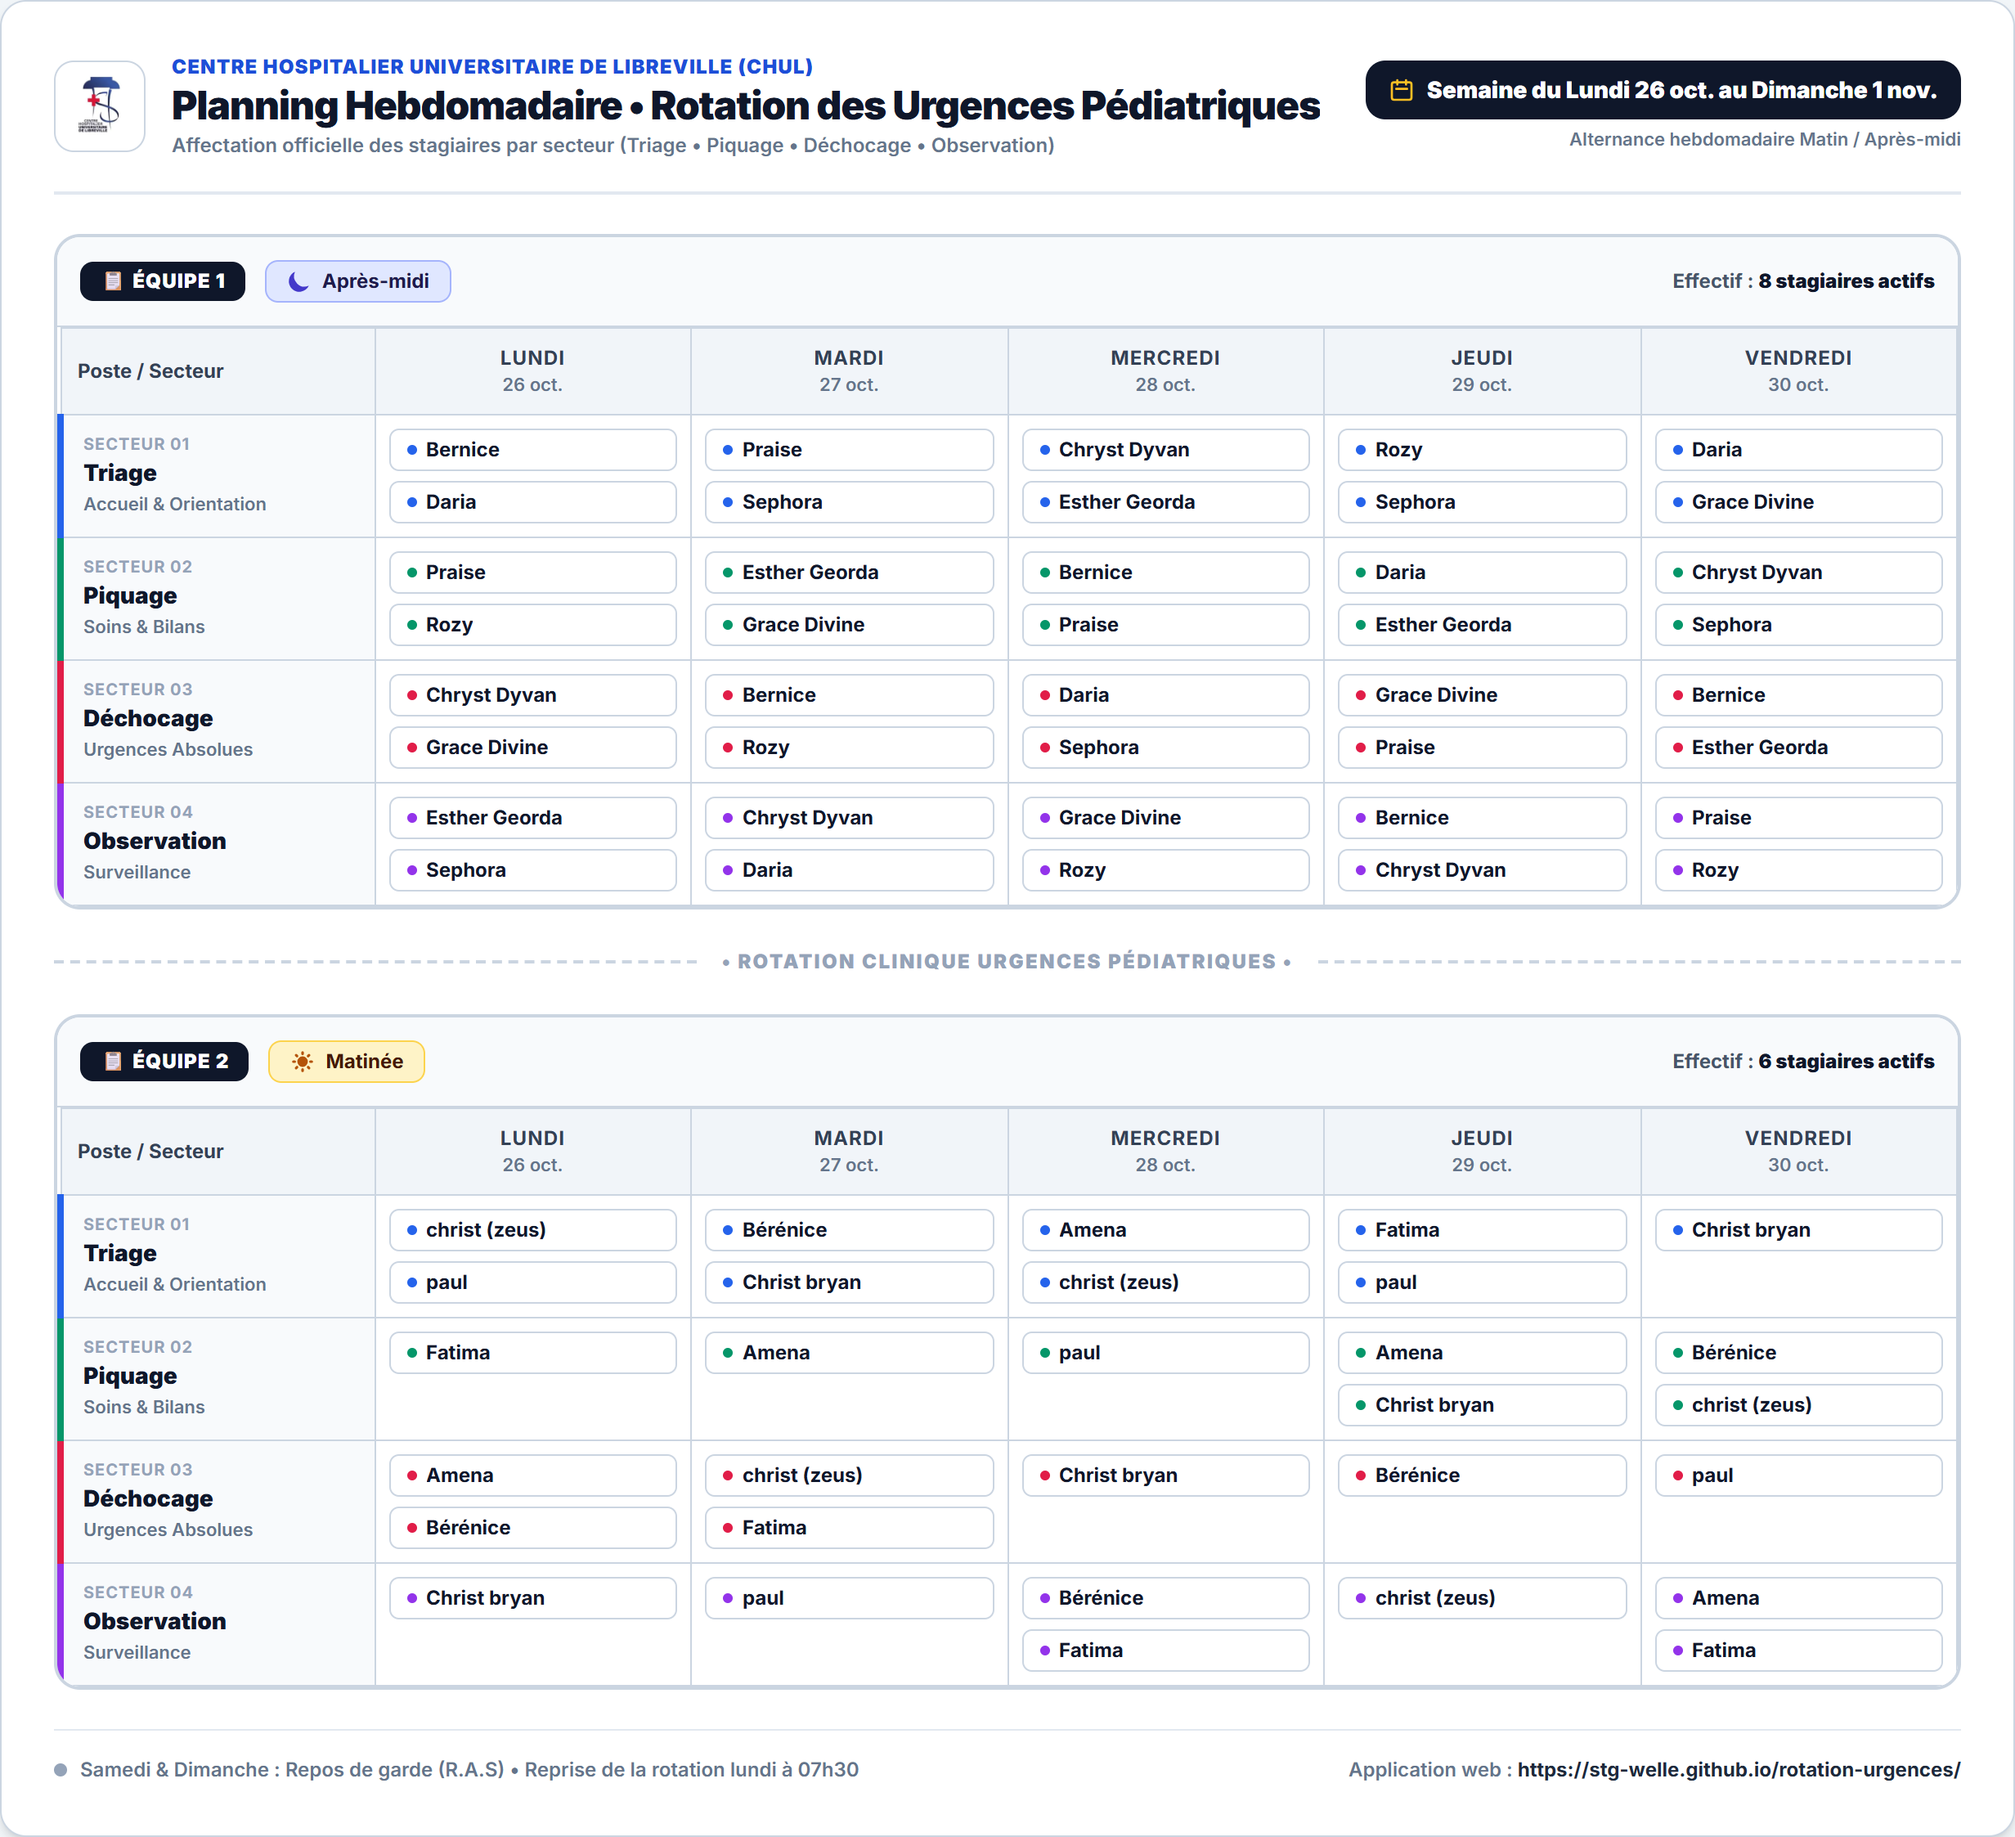
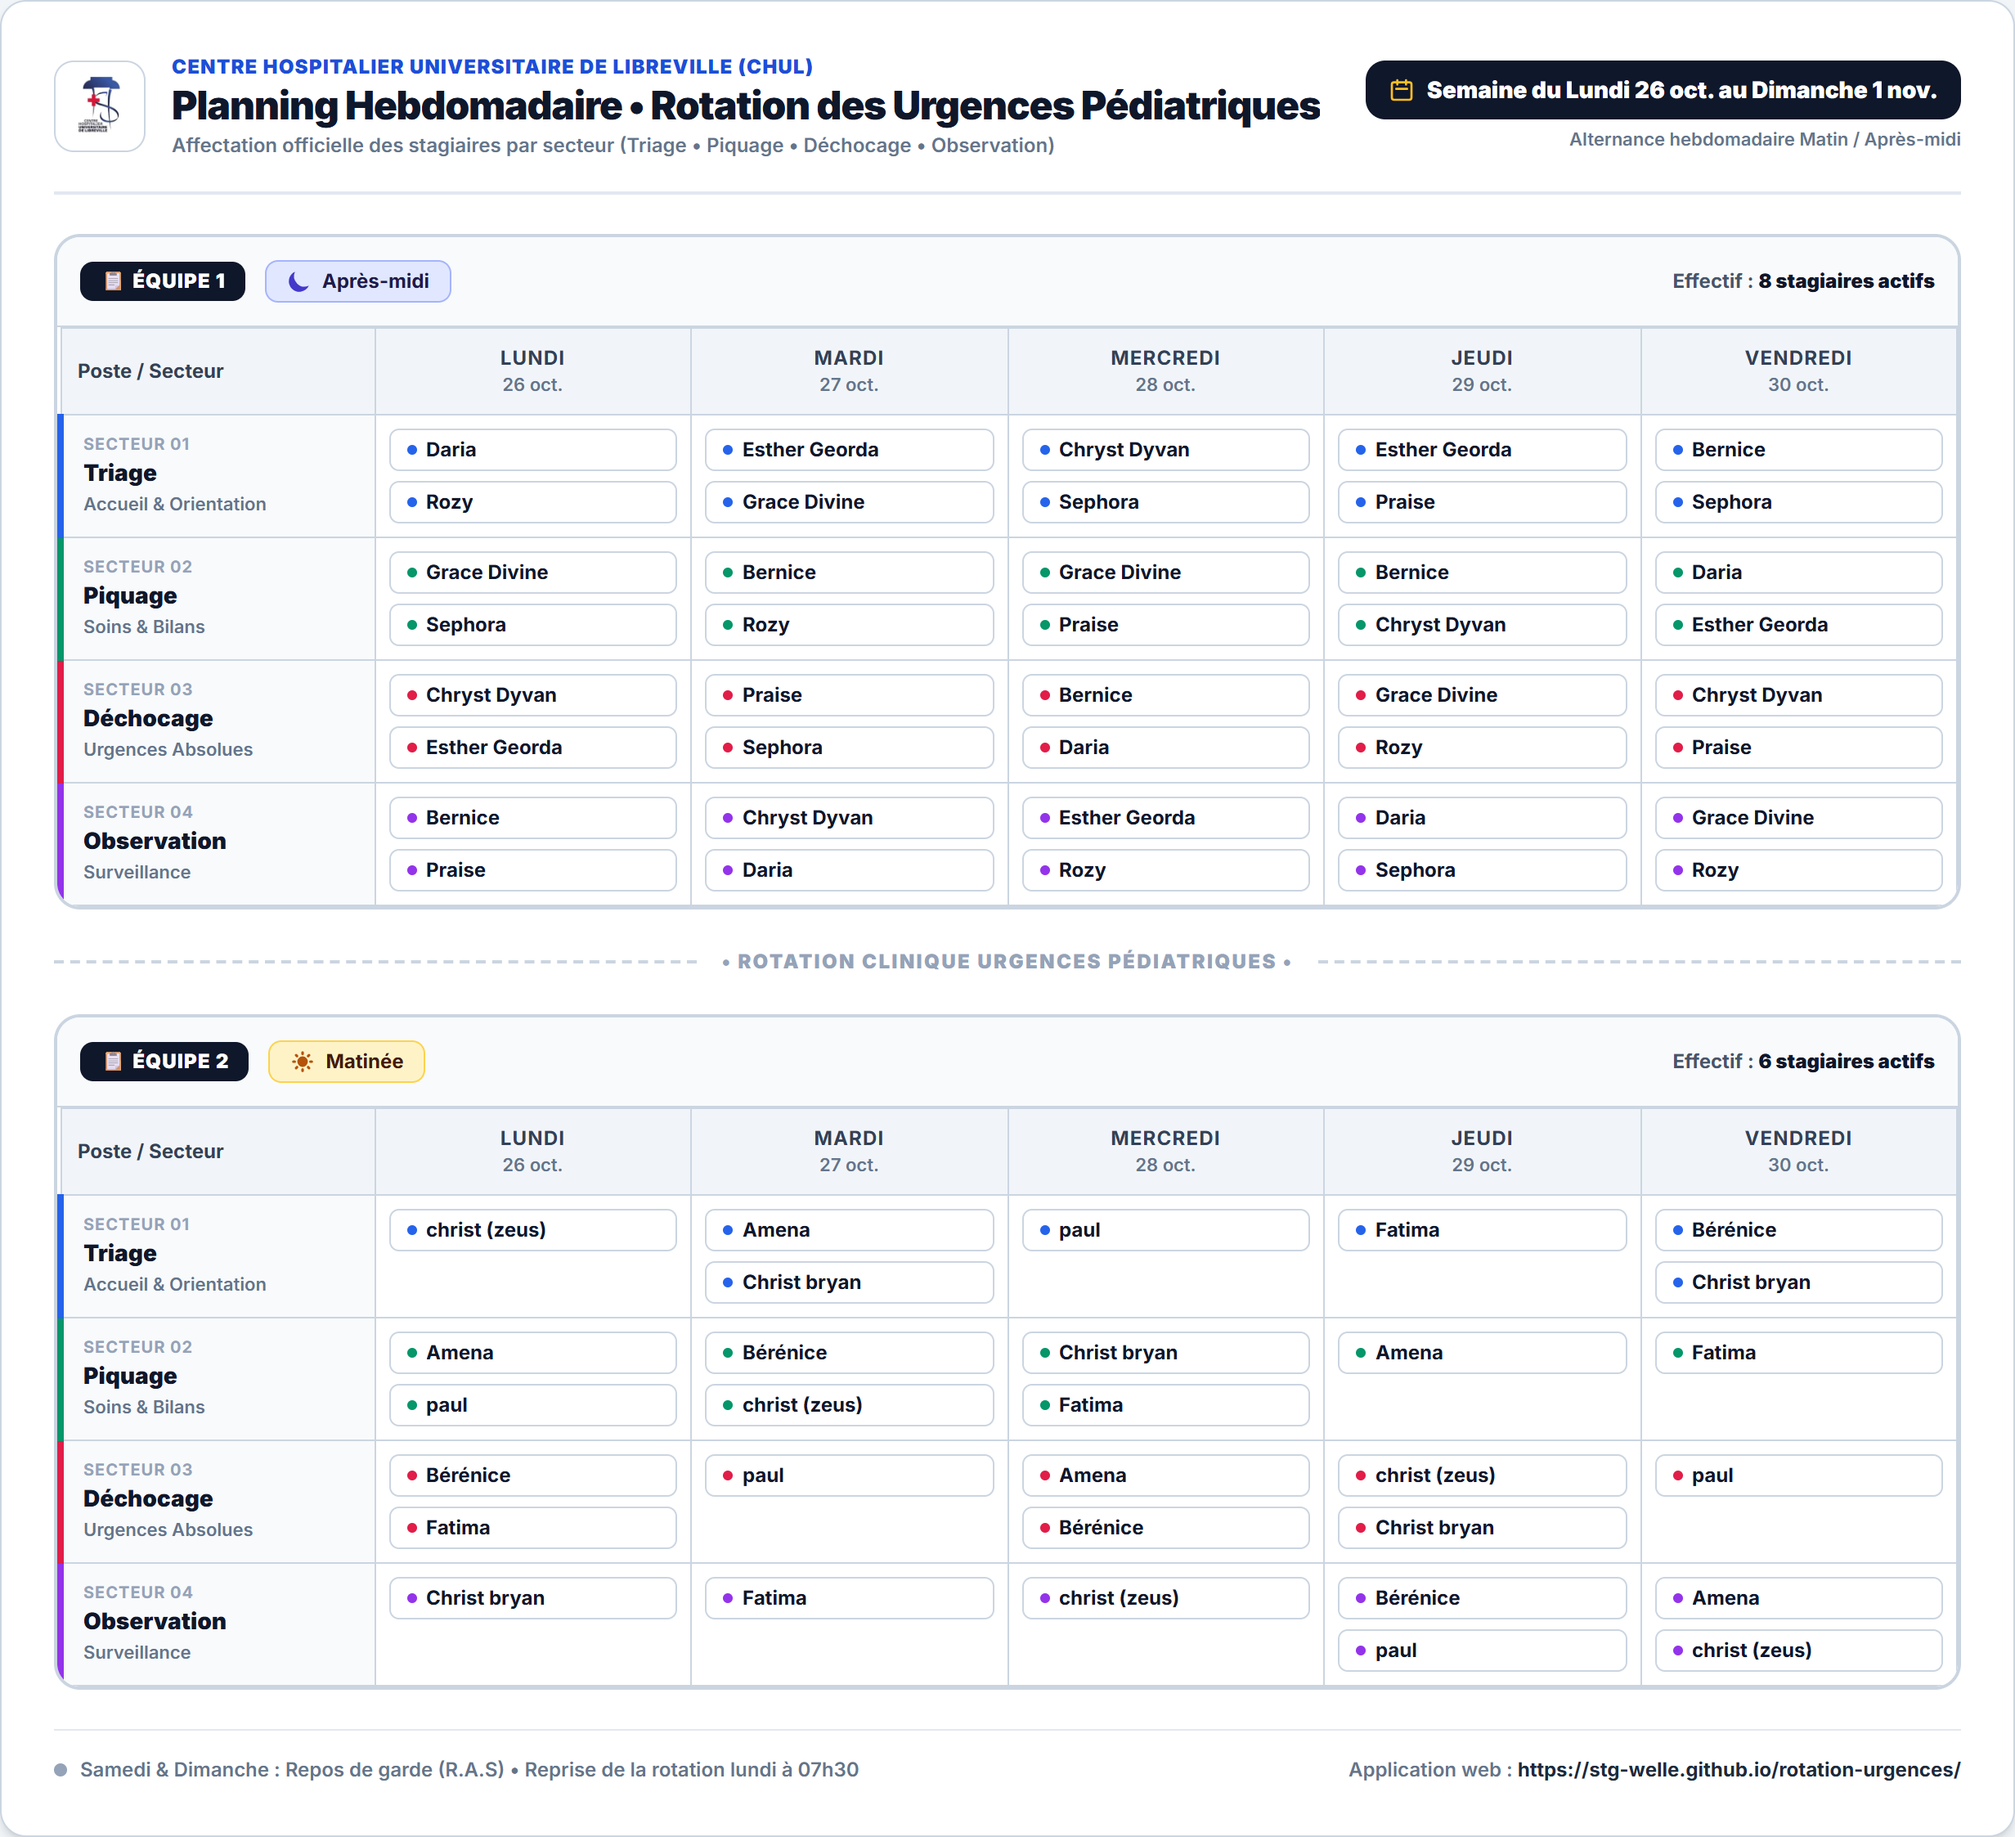
feat(rotation): enforce monthly duplicate room rotation for total equity (5 days per room per month)

diff --git a/app.js b/app.js
@@ -379,6 +379,7 @@
 
   // 144 séquences canoniques individuelles couvrant obligatoirement les 4 salles sans répétition consécutive
   const VALID_ROOM_SEQUENCES = [];
+  const SEQS_BY_DUP = [[], [], [], []];
   for (let s0 = 0; s0 < 4; s0++) {
     for (let s1 = 0; s1 < 4; s1++) {
       if (s1 === s0) continue;
@@ -389,7 +390,12 @@
           for (let s4 = 0; s4 < 4; s4++) {
             if (s4 === s3) continue;
             if (new Set([s0, s1, s2, s3, s4]).size === 4) {
-              VALID_ROOM_SEQUENCES.push([s0, s1, s2, s3, s4]);
+              const seq = [s0, s1, s2, s3, s4];
+              const counts = [0, 0, 0, 0];
+              seq.forEach((r) => counts[r]++);
+              const dupRoom = counts.findIndex((c) => c === 2);
+              VALID_ROOM_SEQUENCES.push(seq);
+              SEQS_BY_DUP[dupRoom].push(seq);
             }
           }
         }
@@ -425,78 +431,100 @@
     const seed = (Math.abs(weekNumber) * 7919 + N * 104729 + 12345) >>> 0;
     const rand = mulberry32(seed);
 
+    // Rotation mensuelle stricte de la salle doublée :
+    // Chaque semaine (w = 0, 1, 2, 3), l'étudiant i double une salle différente (i + w) % 4.
+    // Sur 4 semaines (20 jours), chaque étudiant fait EXACTEMENT 5 jours par salle (5 Triage, 5 Piquage, 5 Déchocage, 5 Obs) !
+    const targetDups = [];
+    for (let i = 0; i < N; i++) {
+      targetDups.push(((i + weekNumber) % 4 + 4) % 4);
+    }
+
     let bestSeqs = null;
     let bestScore = Infinity;
 
     for (let trial = 0; trial < 3000; trial++) {
       const chosen = [];
       const counts = Array.from({ length: 5 }, () => [0, 0, 0, 0]);
+      let possible = true;
 
-      const shuffled = [...VALID_ROOM_SEQUENCES];
-      for (let i = shuffled.length - 1; i > 0; i--) {
-        const j = Math.floor(rand() * (i + 1));
-        const tmp = shuffled[i];
-        shuffled[i] = shuffled[j];
-        shuffled[j] = tmp;
-      }
+      for (let i = 0; i < N; i++) {
+        const targetRoom = targetDups[i];
+        const pool = SEQS_BY_DUP[targetRoom];
 
-      for (const seq of shuffled) {
-        if (chosen.length === N) break;
-        let canAdd = true;
-        for (let d = 0; d < 5; d++) {
-          if (counts[d][seq[d]] >= maxCap) {
-            canAdd = false;
-            break;
-          }
+        const cands = [...pool];
+        for (let k = cands.length - 1; k > 0; k--) {
+          const j = Math.floor(rand() * (k + 1));
+          const tmp = cands[k];
+          cands[k] = cands[j];
+          cands[j] = tmp;
         }
-        if (canAdd) {
-          chosen.push(seq);
-          for (let d = 0; d < 5; d++) counts[d][seq[d]]++;
-        }
-      }
 
-      if (chosen.length === N) {
-        let valid = true;
-        for (let d = 0; d < 5; d++) {
-          for (let r = 0; r < 4; r++) {
-            if (counts[d][r] < minCap || counts[d][r] > maxCap) {
-              valid = false;
+        let picked = null;
+        for (const seq of cands) {
+          let canAdd = true;
+          for (let d = 0; d < 5; d++) {
+            if (counts[d][seq[d]] >= maxCap) {
+              canAdd = false;
               break;
             }
           }
-          if (!valid) break;
-        }
-        if (!valid) continue;
-
-        let pairRepetitions = 0;
-        for (let i = 0; i < N; i++) {
-          for (let j = i + 1; j < N; j++) {
-            let sameRoom = 0;
-            for (let d = 0; d < 5; d++) {
-              if (chosen[i][d] === chosen[j][d]) sameRoom++;
-            }
-            if (sameRoom > 1) pairRepetitions += (sameRoom - 1);
+          if (canAdd) {
+            picked = seq;
+            break;
           }
         }
 
-        if (pairRepetitions < bestScore) {
-          bestScore = pairRepetitions;
-          bestSeqs = chosen;
-          if (bestScore === 0) break;
+        if (!picked) {
+          possible = false;
+          break;
         }
+
+        chosen.push(picked);
+        for (let d = 0; d < 5; d++) counts[d][picked[d]]++;
+      }
+
+      if (!possible || chosen.length !== N) continue;
+
+      let valid = true;
+      for (let d = 0; d < 5; d++) {
+        for (let r = 0; r < 4; r++) {
+          if (counts[d][r] < minCap || counts[d][r] > maxCap) {
+            valid = false;
+            break;
+          }
+        }
+        if (!valid) break;
+      }
+      if (!valid) continue;
+
+      let pairRepetitions = 0;
+      for (let i = 0; i < N; i++) {
+        for (let j = i + 1; j < N; j++) {
+          let sameRoom = 0;
+          for (let d = 0; d < 5; d++) {
+            if (chosen[i][d] === chosen[j][d]) sameRoom++;
+          }
+          if (sameRoom > 1) pairRepetitions += (sameRoom - 1);
+        }
+      }
+
+      if (pairRepetitions < bestScore) {
+        bestScore = pairRepetitions;
+        bestSeqs = chosen;
+        if (bestScore === 0) break;
       }
     }
 
     if (!bestSeqs) {
       bestSeqs = [];
       for (let i = 0; i < N; i++) {
-        const shift = ((weekNumber * 2) % 4 + 4) % 4;
+        const d = targetDups[i];
         bestSeqs.push([
-          (i + shift + 0) % 4,
-          (i + shift + 1) % 4,
-          (i + shift + 2) % 4,
-          (i + shift + 3) % 4,
-          (i + shift + 1) % 4
+          d,
+          (d + 1) % 4,
+          (d + 2) % 4,
+          (d + 3) % 4,
+          d
         ]);
       }
     }

diff --git a/supabase/functions/daily-whatsapp-schedule/index.ts b/supabase/functions/daily-whatsapp-schedule/index.ts
@@ -61,6 +61,7 @@ function mulberry32(a: number) {
 
 // 144 séquences canoniques garantissant la visite des 4 salles chaque semaine sans répétition consécutive
 const VALID_ROOM_SEQUENCES: number[][] = [];
+const SEQS_BY_DUP: number[][][] = [[], [], [], []];
 for (let s0 = 0; s0 < 4; s0++) {
   for (let s1 = 0; s1 < 4; s1++) {
     if (s1 === s0) continue;
@@ -71,7 +72,12 @@ for (let s0 = 0; s0 < 4; s0++) {
         for (let s4 = 0; s4 < 4; s4++) {
           if (s4 === s3) continue;
           if (new Set([s0, s1, s2, s3, s4]).size === 4) {
-            VALID_ROOM_SEQUENCES.push([s0, s1, s2, s3, s4]);
+            const seq = [s0, s1, s2, s3, s4];
+            const counts = [0, 0, 0, 0];
+            seq.forEach((r) => counts[r]++);
+            const dupRoom = counts.findIndex((c) => c === 2);
+            VALID_ROOM_SEQUENCES.push(seq);
+            SEQS_BY_DUP[dupRoom].push(seq);
           }
         }
       }
@@ -101,78 +107,100 @@ function getDeterministicWeeklySchedule(N: number, weekNumber: number): number[]
   const seed = (Math.abs(weekNumber) * 7919 + N * 104729 + 12345) >>> 0;
   const rand = mulberry32(seed);
 
+  // Rotation mensuelle stricte de la salle doublée :
+  // Chaque semaine (w = 0, 1, 2, 3), l'étudiant i double une salle différente (i + w) % 4.
+  // Sur 4 semaines (20 jours), chaque étudiant fait EXACTEMENT 5 jours par salle (5 Triage, 5 Piquage, 5 Déchocage, 5 Obs) !
+  const targetDups: number[] = [];
+  for (let i = 0; i < N; i++) {
+    targetDups.push(((i + weekNumber) % 4 + 4) % 4);
+  }
+
   let bestSeqs: number[][] | null = null;
   let bestScore = Infinity;
 
   for (let trial = 0; trial < 3000; trial++) {
     const chosen: number[][] = [];
     const counts = Array.from({ length: 5 }, () => [0, 0, 0, 0]);
+    let possible = true;
 
-    const shuffled = [...VALID_ROOM_SEQUENCES];
-    for (let i = shuffled.length - 1; i > 0; i--) {
-      const j = Math.floor(rand() * (i + 1));
-      const tmp = shuffled[i];
-      shuffled[i] = shuffled[j];
-      shuffled[j] = tmp;
-    }
+    for (let i = 0; i < N; i++) {
+      const targetRoom = targetDups[i];
+      const pool = SEQS_BY_DUP[targetRoom];
 
-    for (const seq of shuffled) {
-      if (chosen.length === N) break;
-      let canAdd = true;
-      for (let d = 0; d < 5; d++) {
-        if (counts[d][seq[d]] >= maxCap) {
-          canAdd = false;
-          break;
-        }
+      const cands = [...pool];
+      for (let k = cands.length - 1; k > 0; k--) {
+        const j = Math.floor(rand() * (k + 1));
+        const tmp = cands[k];
+        cands[k] = cands[j];
+        cands[j] = tmp;
       }
-      if (canAdd) {
-        chosen.push(seq);
-        for (let d = 0; d < 5; d++) counts[d][seq[d]]++;
-      }
-    }
 
-    if (chosen.length === N) {
-      let valid = true;
-      for (let d = 0; d < 5; d++) {
-        for (let r = 0; r < 4; r++) {
-          if (counts[d][r] < minCap || counts[d][r] > maxCap) {
-            valid = false;
+      let picked: number[] | null = null;
+      for (const seq of cands) {
+        let canAdd = true;
+        for (let d = 0; d < 5; d++) {
+          if (counts[d][seq[d]] >= maxCap) {
+            canAdd = false;
             break;
           }
         }
-        if (!valid) break;
-      }
-      if (!valid) continue;
-
-      let pairRepetitions = 0;
-      for (let i = 0; i < N; i++) {
-        for (let j = i + 1; j < N; j++) {
-          let sameRoom = 0;
-          for (let d = 0; d < 5; d++) {
-            if (chosen[i][d] === chosen[j][d]) sameRoom++;
-          }
-          if (sameRoom > 1) pairRepetitions += (sameRoom - 1);
+        if (canAdd) {
+          picked = seq;
+          break;
         }
       }
 
-      if (pairRepetitions < bestScore) {
-        bestScore = pairRepetitions;
-        bestSeqs = chosen;
-        if (bestScore === 0) break;
+      if (!picked) {
+        possible = false;
+        break;
       }
+
+      chosen.push(picked);
+      for (let d = 0; d < 5; d++) counts[d][picked[d]]++;
+    }
+
+    if (!possible || chosen.length !== N) continue;
+
+    let valid = true;
+    for (let d = 0; d < 5; d++) {
+      for (let r = 0; r < 4; r++) {
+        if (counts[d][r] < minCap || counts[d][r] > maxCap) {
+          valid = false;
+          break;
+        }
+      }
+      if (!valid) break;
+    }
+    if (!valid) continue;
+
+    let pairRepetitions = 0;
+    for (let i = 0; i < N; i++) {
+      for (let j = i + 1; j < N; j++) {
+        let sameRoom = 0;
+        for (let d = 0; d < 5; d++) {
+          if (chosen[i][d] === chosen[j][d]) sameRoom++;
+        }
+        if (sameRoom > 1) pairRepetitions += (sameRoom - 1);
+      }
+    }
+
+    if (pairRepetitions < bestScore) {
+      bestScore = pairRepetitions;
+      bestSeqs = chosen;
+      if (bestScore === 0) break;
     }
   }
 
   if (!bestSeqs) {
     bestSeqs = [];
     for (let i = 0; i < N; i++) {
-      const shift = ((weekNumber * 2) % 4 + 4) % 4;
+      const d = targetDups[i];
       bestSeqs.push([
-        (i + shift + 0) % 4,
-        (i + shift + 1) % 4,
-        (i + shift + 2) % 4,
-        (i + shift + 3) % 4,
-        (i + shift + 1) % 4
+        d,
+        (d + 1) % 4,
+        (d + 2) % 4,
+        (d + 3) % 4,
+        d
       ]);
     }
   }

diff --git a/scripts/capture_local.js b/scripts/capture_local.js
@@ -1,0 +1,35 @@
+const { chromium } = require('playwright');
+const path = require('path');
+
+(async () => {
+  console.log('Starting Playwright with msedge channel...');
+  const browser = await chromium.launch({
+    channel: 'msedge',
+    headless: true,
+    args: ['--no-sandbox', '--disable-setuid-sandbox']
+  });
+
+  const context = await browser.newContext({
+    viewport: { width: 1300, height: 1600 },
+    deviceScaleFactor: 2,
+    timezoneId: 'Africa/Libreville',
+    locale: 'fr-FR'
+  });
+
+  const page = await context.newPage();
+  const filePath = path.resolve(__dirname, '../index.html').replace(/\\/g, '/');
+  const targetUrl = `file://${filePath}?mode=capture&week=current`;
+  console.log(`Navigating to: ${targetUrl}`);
+
+  await page.goto(targetUrl, { waitUntil: 'load', timeout: 30000 });
+  await page.waitForSelector('#planning-screenshot-zone[data-loaded="true"]', { timeout: 30000 });
+  await page.waitForTimeout(1200);
+
+  const screenshotZone = await page.$('#planning-screenshot-zone');
+  const outputPath = path.resolve(__dirname, '../planning-semaine.png');
+  await screenshotZone.screenshot({ path: outputPath });
+  console.log(`Updated screenshot saved to: ${outputPath}`);
+
+  await browser.close();
+  console.log('Capture complete!');
+})();
